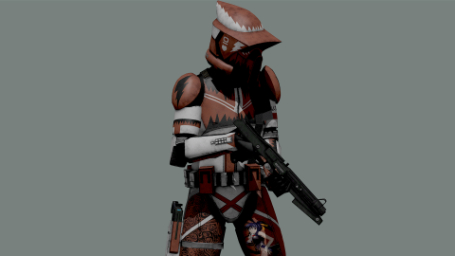
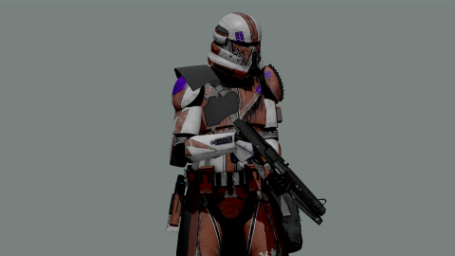
Changed Preview Images

Changed region(s): [[0.3692, 0.0, 0.6769, 1.0], [0.5846, 0.5312, 0.6154, 0.5938]]

diff --git a/addons/custom_armor/configs/Units.hpp b/addons/custom_armor/configs/Units.hpp
@@ -129,10 +129,10 @@ class CLASS(Unit_Cutthroat): CLASS(Unit_Phase2_Base) {
     };
 
     linkedItems[] = {
-        QCLASS(Helmet_Phase1_Cutthroat), QCLASS(Vest_Basic), QCLASS(cloneNvg_chip), "lsd_gar_p2Interior_hud", CLONE_LINKED_ITEMS_RADIO
+        QCLASS(Helmet_Phase2_Cutthroat), QCLASS(Vest_Basic), QCLASS(cloneNvg_chip), "lsd_gar_p2Interior_hud", CLONE_LINKED_ITEMS_RADIO
     };
     respawnLinkedItems[] = {
-        QCLASS(Helmet_Phase1_Cutthroat), QCLASS(Vest_Basic), QCLASS(cloneNvg_chip), "lsd_gar_p2Interior_hud", CLONE_LINKED_ITEMS_RADIO
+        QCLASS(Helmet_Phase2_Cutthroat), QCLASS(Vest_Basic), QCLASS(cloneNvg_chip), "lsd_gar_p2Interior_hud", CLONE_LINKED_ITEMS_RADIO
     };
 };
 
@@ -150,10 +150,10 @@ class CLASS(Unit_Defter): CLASS(Unit_Phase2_Base) {
     };
 
     linkedItems[] = {
-        QCLASS(Helmet_Phase1_Defter), QCLASS(Vest_Basic), QCLASS(cloneNvg_chip), "lsd_gar_p1Interior_hud", CLONE_LINKED_ITEMS_RADIO
+        QCLASS(Helmet_ARF_Defter), QCLASS(Vest_Basic), QCLASS(cloneNvg_chip), "lsd_gar_p1Interior_hud", CLONE_LINKED_ITEMS_RADIO
     };
     respawnLinkedItems[] = {
-        QCLASS(Helmet_Phase1_Defter), QCLASS(Vest_Basic), QCLASS(cloneNvg_chip), "lsd_gar_p1Interior_hud", CLONE_LINKED_ITEMS_RADIO
+        QCLASS(Helmet_ARF_Defter), QCLASS(Vest_Basic), QCLASS(cloneNvg_chip), "lsd_gar_p1Interior_hud", CLONE_LINKED_ITEMS_RADIO
     };
 };
 
@@ -467,10 +467,10 @@ class CLASS(Unit_Talyn): CLASS(Unit_Phase2_Base) {
     };
 
     linkedItems[] = {
-        QCLASS(Helmet_Talyn), QCLASS(Vest_CSS), QCLASS(cloneNvg_chip), "lsd_gar_p2Interior_hud", CLONE_LINKED_ITEMS_RADIO
+        QCLASS(Helmet_Phase2_Talyn), QCLASS(Vest_CSS), QCLASS(cloneNvg_chip), "lsd_gar_p2Interior_hud", CLONE_LINKED_ITEMS_RADIO
     };
     respawnLinkedItems[] = {
-        QCLASS(Helmet_Talyn), QCLASS(Vest_CSS), QCLASS(cloneNvg_chip), "lsd_gar_p2Interior_hud", CLONE_LINKED_ITEMS_RADIO
+        QCLASS(Helmet_Phase2_Talyn), QCLASS(Vest_CSS), QCLASS(cloneNvg_chip), "lsd_gar_p2Interior_hud", CLONE_LINKED_ITEMS_RADIO
     };
 };
 

diff --git a/addons/custom_armor/XtdGearModels.hpp b/addons/custom_armor/XtdGearModels.hpp
@@ -133,6 +133,7 @@ class XtdGearModels {
                     "Bond",
                     "Burnt",
                     "Cough",
+                    "Cutthroat",
                     "Dexus",
                     "Evo",
                     "Flare",
@@ -172,6 +173,8 @@ class XtdGearModels {
                 class Bob { label = "Bob"; };
                 class Bond { label = "Bond"; };
                 class Burnt { label = "Burnt"; };
+                class Cough { label = "Cough"; };
+                class Cutthroat { label = "Cutthroat"; };
                 class Dexus { label = "Dexus"; };
                 class Evo { label = "Evo"; };
                 class Flare { label = "Flare"; };

diff --git a/addons/custom_armor/configs/Helmets_P2.hpp b/addons/custom_armor/configs/Helmets_P2.hpp
@@ -8,6 +8,7 @@ P2_HELMET_VISOR_CUSTOM(Bob,Kyber);
 P2_HELMET_CUSTOM(Bond);
 P2_HELMET_VISOR_CUSTOM(Burnt,Bacta);
 P2_HELMET_CUSTOM(Cough);
+P2_HELMET_CUSTOM(Cutthroat);
 P2_HELMET_VISOR_CUSTOM(Dexus,Bacta);
 P2_HELMET_CUSTOM(Evo);
 P2_HELMET_CUSTOM(Flare);

diff --git a/addons/custom_armor/configs/Uniforms.hpp b/addons/custom_armor/configs/Uniforms.hpp
@@ -79,6 +79,7 @@ UNIFORM_CUSTOM(Rev);
 UNIFORM_CUSTOM(Sin);
 UNIFORM_CUSTOM(Sogi);
 UNIFORM_CUSTOM(Splashdown);
+UNIFORM_CUSTOM(Talyn);
 UNIFORM_CUSTOM(Tugz);
 UNIFORM_CUSTOM(Tyrant);
 UNIFORM_CUSTOM(Woods);
